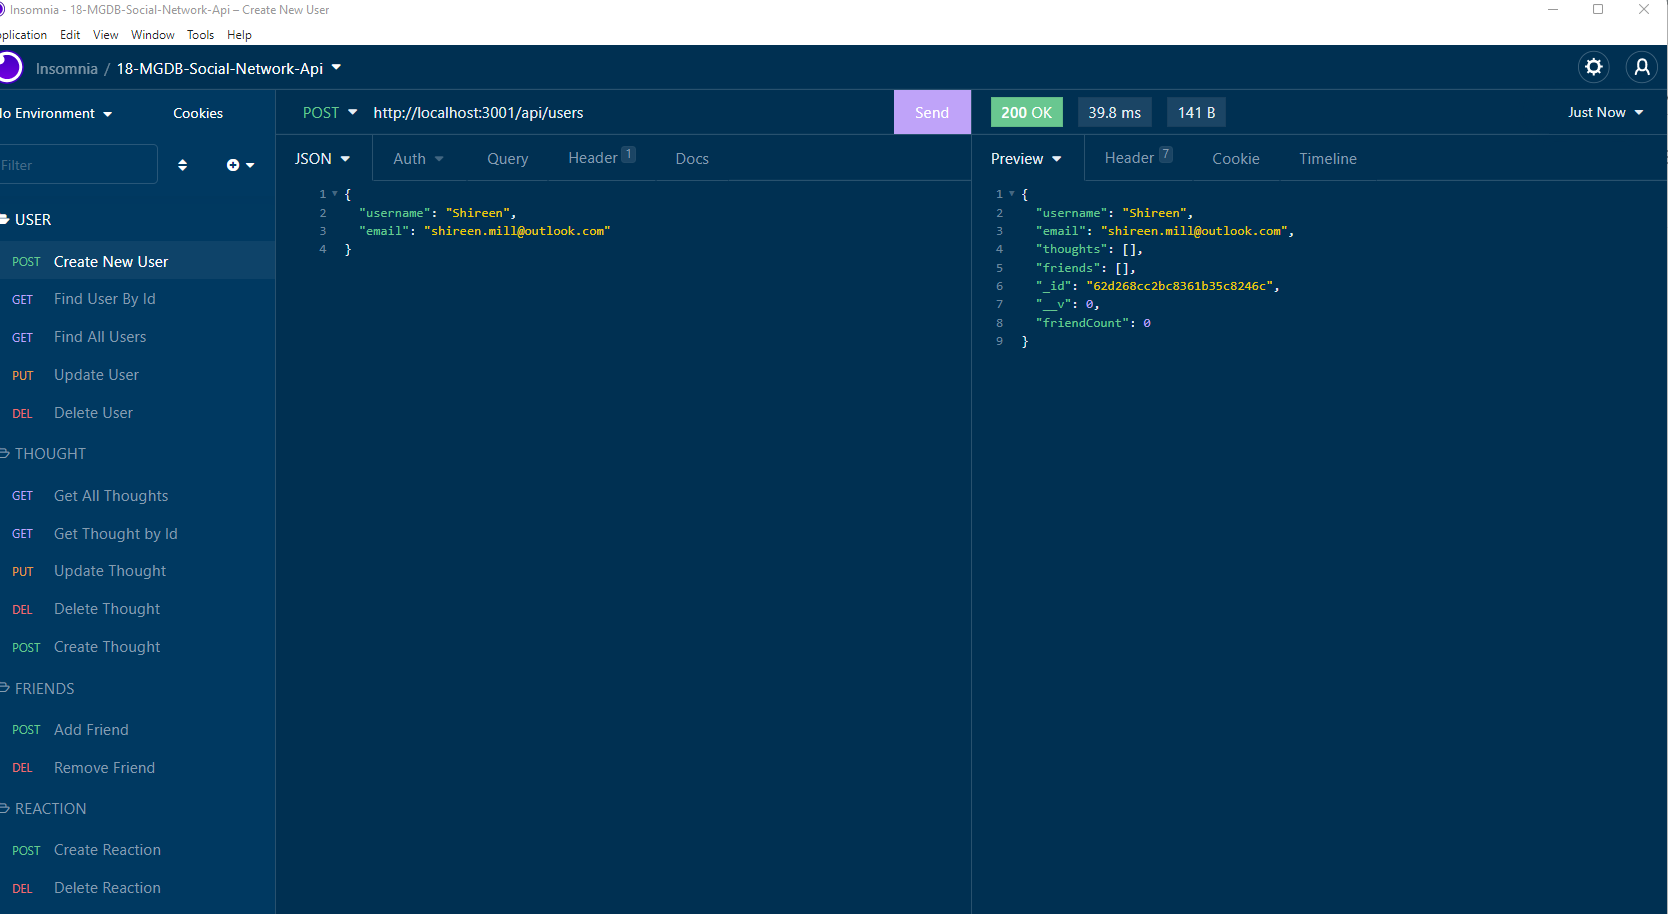
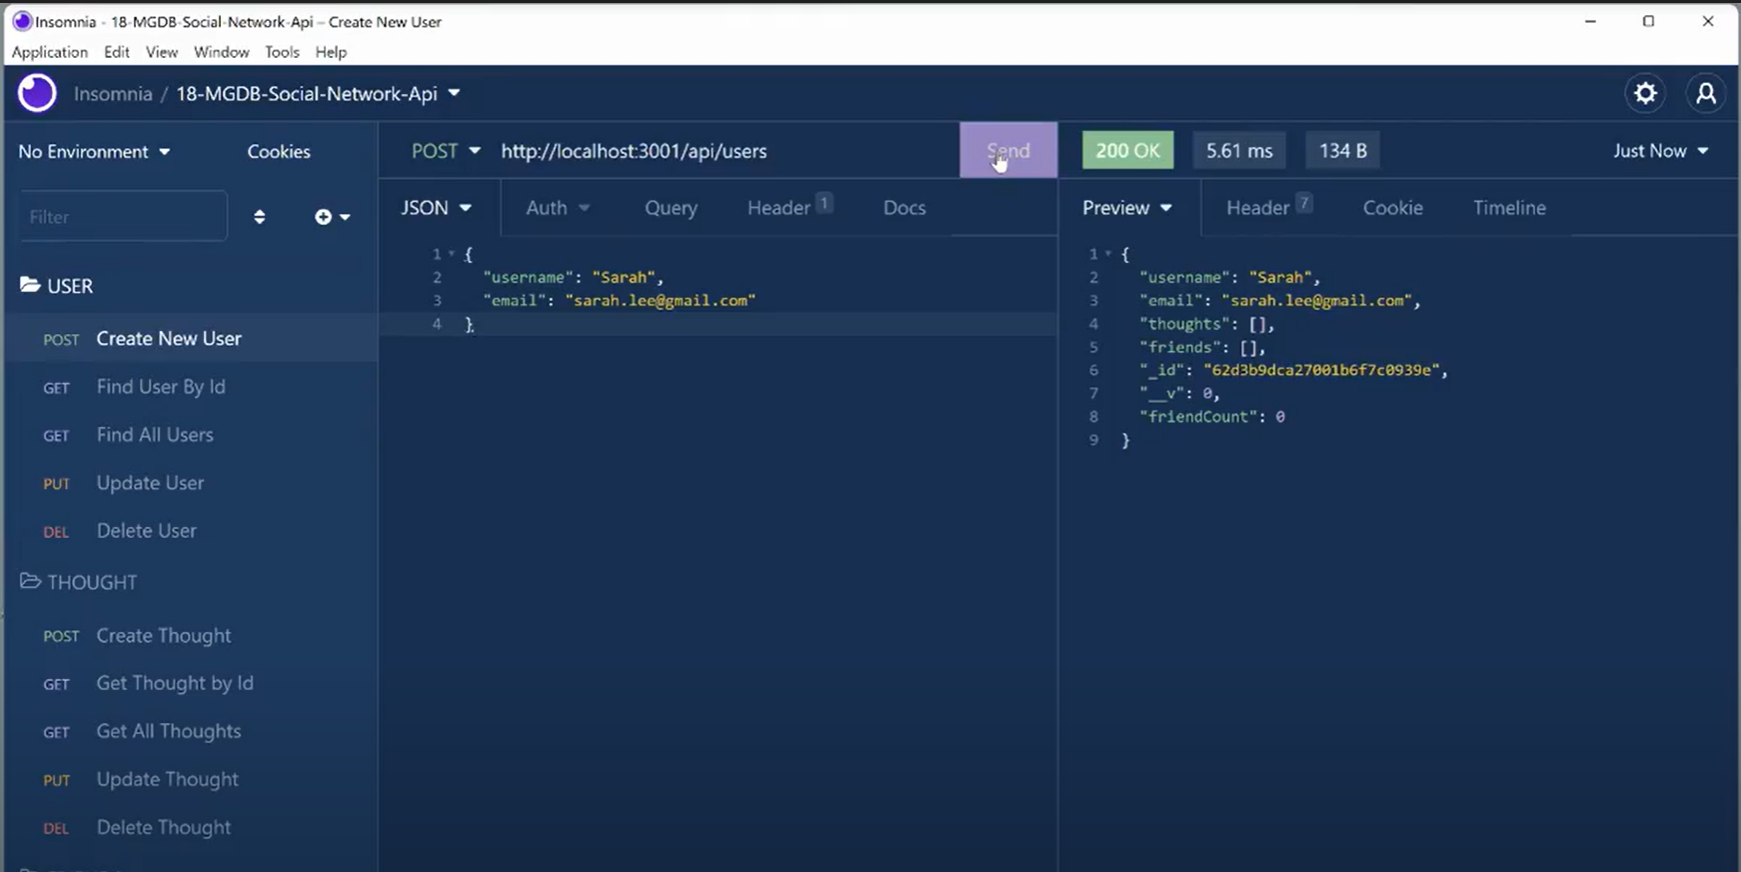
updating the usage section of the README

Changed region(s): [[0.0, 0.0, 1.0, 1.0], [0.6235, 0.4954, 0.6547, 0.5264]]

diff --git a/README.md b/README.md
@@ -87,6 +87,55 @@ The repository name is **18-MGDB-Social-Network-API.**
 
 ## Usage
 
+* To start the application 's server and at the command prompt, the user is to type "npm run start".
+
+* When the user open API GET routes in Insomnia for users and thoughts, the data for each of these routes is displayed in a formatted JSON as shown below:-
+
+*GET - Find all users :-*
+
+ ![alt text](/assets/UGetAllUsers.png)
+
+*GET - Find user by ID :-*
+
+ ![alt text](/assets/UserByID.png)
+
+*GET - All Thoughts :-*
+
+ ![alt text](/assets/GetAllThoughts.png)
+
+*GET - Thought by ID :-*
+
+![alt text](/assets/ThoughtbyID.png)
+
+* When the user test API POST, PUT, and DELETE routes in Insomnia, then the user is able to successfully create, update, and delete users and thoughts in my database:-
+
+*POST - Create New User*
+
+![alt text](/assets/NewUser.png)
+
+*PUT - Update User*
+
+![alt text](/assets/UpdateUser.png)
+
+*DEL - Delete User*
+
+![alt text](/assets/DeleteUser.png)
+
+*POST - Create Thought*
+
+![alt text](/assets/CreateThought.png)
+
+*PUT - Update Thought*
+
+![alt text](/assets/UpdateThought.png)
+
+*DEL - Delete Thought*
+
+![alt text](/assets/DeleteThoughts.png)
+
+*   When the user test the API POST and DELETE routes in Insomnia, the user is able to successfully create and delete reactions to thoughts, add and remove friends to a user's friends list.
+
+
 
 
 ## References
